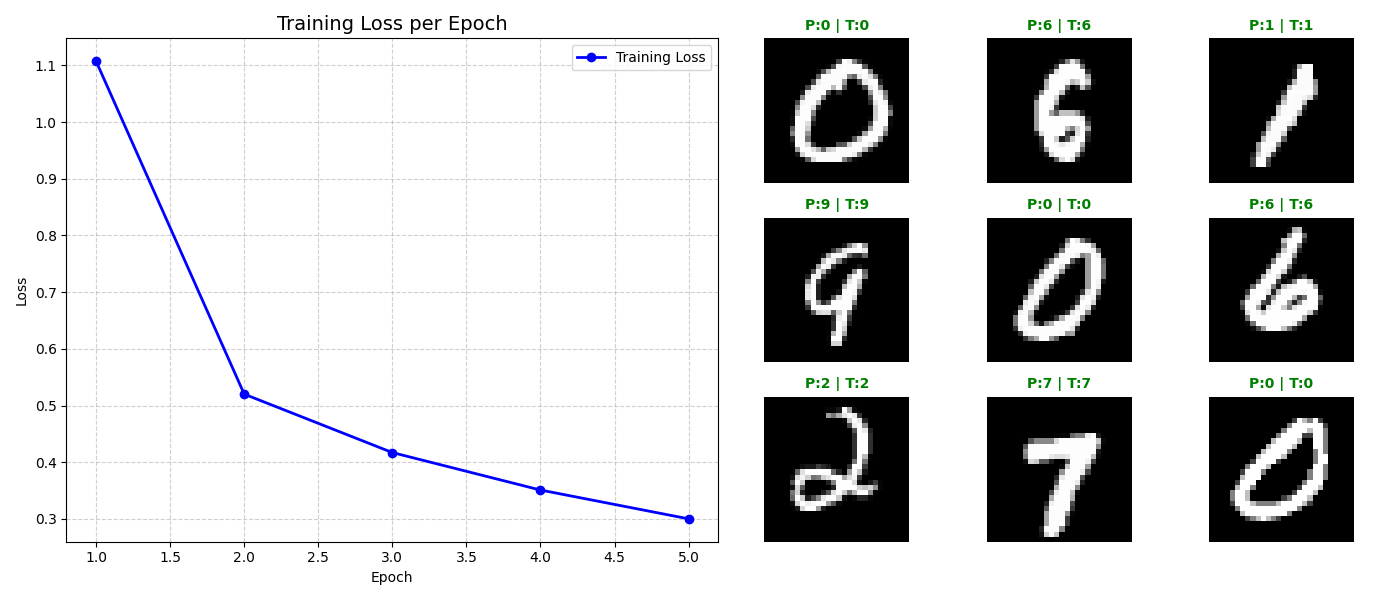
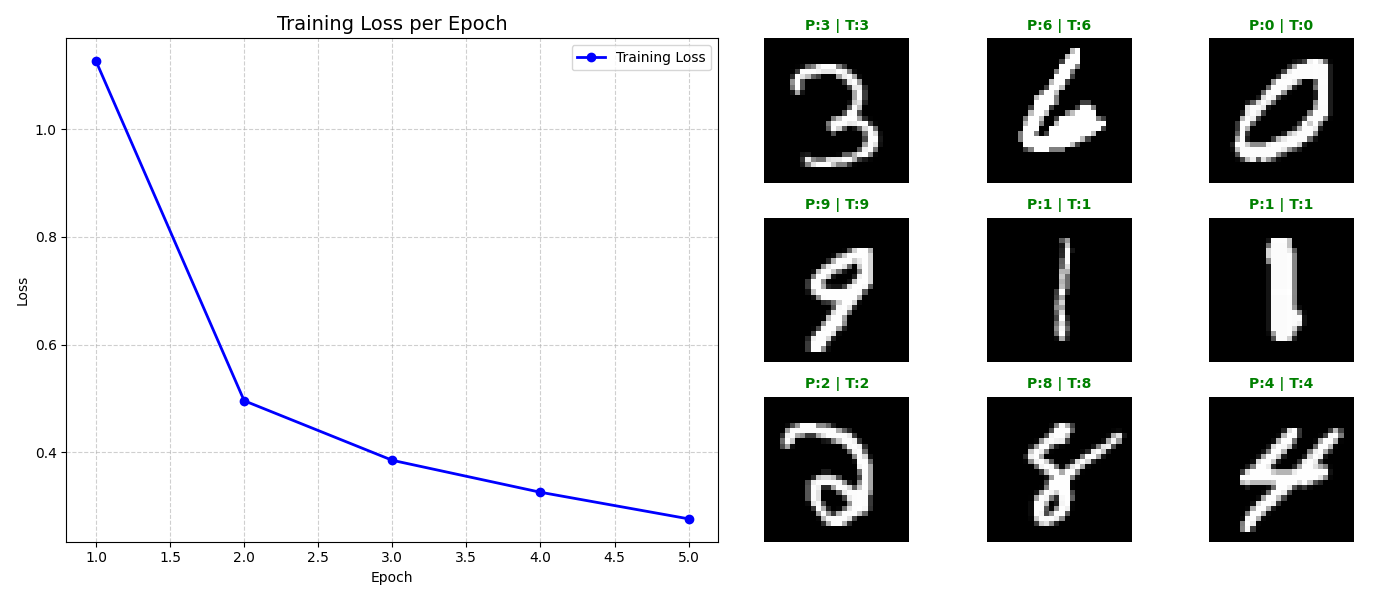
update README.md

diff --git a/miniflow/layers/__init__.py b/miniflow/layers/__init__.py
@@ -2,3 +2,4 @@ from .layer import Layer
 from .dense import Dense
 from .dropout import Dropout
 from .batchnorm import BatchNormalization
+from .flatten import Flatten

diff --git a/README.md b/README.md
@@ -1,46 +1,114 @@
-# 🧠 miniFlow: A Deep Learning Framework Built from Scratch with NumPy
+# miniFlow
 
-[![Built with Python](https://img.shields.io/badge/Python-3.8+%20|%20NumPy-blue?style=flat-square&logo=python)](https://www.python.org/)
-[![MIT License](https://img.shields.io/badge/License-MIT-yellow.svg?style=flat-square)](LICENSE)
-[![Supported Parameter Count](https://img.shields.io/badge/Parameters-~100K-orange?style=flat-square)](https://github.com/alitkbbl/miniFlow)
+[![Python](https://img.shields.io/badge/Python-3.8%2B-blue?style=flat-square&logo=python)](https://www.python.org/)
+[![NumPy](https://img.shields.io/badge/Backend-Pure%20NumPy-013243?style=flat-square&logo=numpy)](https://numpy.org/)
+[![License](https://img.shields.io/badge/License-MIT-yellow?style=flat-square)](https://opensource.org/licenses/MIT)
+[![Accuracy](https://img.shields.io/badge/MNIST%20Accuracy-~94%25-success?style=flat-square)](results.png)
+[![Parameters](https://img.shields.io/badge/Parameters-~109k-orange?style=flat-square)](model.py)
 
-## About miniFlow ✨
+**miniFlow** is a modular, high-performance deep learning library built entirely **from scratch** using **NumPy**.
 
-**miniFlow** is a lightweight, object-oriented, and educational deep learning framework implemented solely using the **NumPy** library, inspired by the **TensorFlow/Keras** syntax. The primary goal of this project is to gain a deeper understanding of the fundamental concepts of neural networks, including gradient computation (Backpropagation), standard layers, and optimization methods, by building them *from scratch*.
+Designed with an API inspired by Keras and TensorFlow, this project aims to demystify the "black box" of deep learning. It demonstrates how neural networks operate at the lowest level—handling matrix calculus, gradient descent, and backpropagation manually without relying on auto-differentiation engines.
 
-miniFlow serves as an excellent tool for developers and students who wish to explore the inner workings of larger deep learning frameworks.
+---
 
-## Key Features 🔑
+## 🚀 Key Features
 
-Focusing on code clarity and efficiency (while maintaining implementation simplicity), miniFlow offers a comprehensive set of tools:
+*   **Pure NumPy Core:** No pre-built Autograd. Every forward and backward pass is mathematically implemented using matrix operations.
+*   **Keras-Style API:** Intuitive model construction using `model.add()`, `compile()`, and `fit()`.
+*   **Advanced Optimizers:** Full implementation of **Adam** (Adaptive Moment Estimation) with bias correction, alongside standard SGD.
+*   **Smart Initialization:** Automatic weight initialization support for **He** (for ReLU) and **Xavier/Glorot** (for Sigmoid/Tanh).
+*   **Modular Architecture:** Clean separation of Layers, Losses, Activations, and Optimizers for easy extensibility.
 
-*   **Object-Oriented and Modular Architecture:** Structured with separate modules for layers, activation functions, and loss functions for easier maintenance and extension.
-*   **Support for Advanced Layers:** Implementation of essential layers for modern neural networks:
-    *   **Flatten Layer**
-    *   **BatchNormalization Layer**
-    *   **Dropout Layer**
-*   **Powerful Callbacks System:** Includes an **Early Stopping** system (with `val_loss` monitoring capability) to prevent overfitting during training.
-*   **Basic and Advanced Optimizers:** Support for key optimization methods:
-    *   **SGD** (Stochastic Gradient Descent)
-    *   **Adam**
-*   **Essential Loss Functions:** Includes **SoftmaxCrossEntropy** (suitable for multi-class classification) and **MSE** (Mean Squared Error).
-*   **Efficient Training:** Complete implementation of the four main stages of each epoch (Forward Pass, Loss Calculation, Backward Pass, Weight Update) with support for **Mini-Batching** for acceptable performance.
+---
 
-## Installation and Setup 🛠
+## 📂 Project Structure
+```text
+miniflow/
+├── activations/          # ReLU, LeakyReLU, Sigmoid, Tanh, Softmax
+├── layers/               # Dense, Flatten, Dropout, BatchNorm
+├── losses/               # SoftmaxCrossEntropy, MSE, BinaryCrossEntropy
+├── optimizers/           # Adam, SGD
+├── utils/                # Batch generation and data utilities
+├── model.py              # Core Engine (Graph execution & Training loop)
+└── main.py               # Example usage (MNIST Training)
+```
+---
 
-Since miniFlow is an educational project and its only dependency is NumPy, installation is straightforward:
+## ⚡ Quick Start
 
-### Prerequisites
-
-*   Python 3.8+
-*   NumPy
-*   Matplotlib
-
-## Documentation & Development 📚
-
-For a deeper guide on the implementation of the Forward/Backward Pass in each layer and the mathematical details behind the optimizers, please refer to the files within the respective folders.
-
-
+Building a neural network is simple and familiar. Below is an example of creating a Multi-Layer Perceptron (MLP) for image classification.
+```python
+import numpy as np
+from miniflow.model import Model
+from miniflow.layers import Dense, Flatten
+from miniflow.activations import ReLU
+from miniflow.losses import SoftmaxCrossEntropy
+from miniflow.optimizers import Adam
 
 
+# 1. Initialize Model and test data
+model = Model()
+x_train = np.random.randn(1000, 28, 28) 
+y_train = np.random.randint(0, 10, size=(1000,))
+y_train_encoded = np.eye(10)[y_train] 
 
+# 2. Build Architecture (Input -> Hidden -> Output)
+model.add(Flatten(input_shape=(28, 28)))      # Flatten 28x28 images
+model.add(Dense(128, kernel_initializer='he')) # Hidden Layer 1
+model.add(ReLU())
+model.add(Dense(64, kernel_initializer='he'))  # Hidden Layer 2
+model.add(ReLU())
+model.add(Dense(10))                           # Output Layer (10 classes)
+
+# 3. Compile
+model.compile(optimizer=Adam(learning_rate=0.001), 
+              loss=SoftmaxCrossEntropy())
+
+# 4. Train
+history = model.fit(x_train, y_train_encoded, epochs=5, batch_size=64)
+```
+
+---
+
+## 📊 Performance & Results
+
+We evaluated **miniFlow** on the standard **MNIST dataset** (60,000 training images, 10,000 test images). The results demonstrate high numerical stability and rapid convergence, comparable to industrial frameworks for this task.
+
+*   **High Accuracy:** Using a simple MLP architecture (Flatten -> Dense -> ReLU), the model achieved a **94.92% accuracy** on the unseen test set in just **5 epochs**.
+*   **Rapid Convergence:** Thanks to the precise implementation of the **Adam** optimizer, the training loss dropped significantly from `1.07` (Epoch 1) to `0.25` (Epoch 5).
+*   **Efficiency:** The model, containing **109,386 parameters**, trains efficiently using vectorized NumPy operations.
+
+### Visualization
+The visualization below displays the training loss curve and sample predictions from the test set. Green labels indicate correct predictions, while red indicates a mismatch.
+
+![Training Results](results.png)
+
+---
+
+## 🛠 Supported Modules
+
+### Layers (`miniflow.layers`)
+*   **Dense:** Fully connected layer with automatic weight initialization.
+*   **Flatten:** Reshapes input tensors for dense processing.
+*   **Dropout:** Randomly zeroes elements to prevent overfitting.
+*   **BatchNorm:** Normalizes layer inputs for faster training.
+
+### Activations (`miniflow.activations`)
+*   **ReLU & LeakyReLU:** Standard for hidden layers.
+*   **Tanh & Sigmoid:** For specific non-linear requirements.
+*   **Softmax:** Integrated for multi-class probability distribution.
+
+### Optimizers (`miniflow.optimizers`)
+*   **Adam:** Implements momentum ($m_t$) and RMSProp ($v_t$) with bias correction.
+*   **SGD:** Stochastic Gradient Descent.
+
+### Losses (`miniflow.losses`)
+*   **SoftmaxCrossEntropy:** Includes numerical stability clipping (`1e-15`) to prevent `log(0)` errors.
+*   **BinaryCrossEntropy:** For binary classification tasks.
+*   **MSE:** Mean Squared Error for regression.
+
+---
+
+### 📝 License
+This project is open-source and intended for educational purposes to demonstrate the internal mechanics of Deep Learning frameworks.
